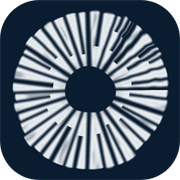
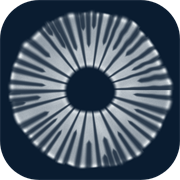
Ink thins towards an implied shore; coffee-stain spore print; moon jelly and denser snow on Research; ?diag
- Home ink: beach and waves removed; the ink thins and breaks into sparse islands towards the bottom, its edge
  running up and drawing back; noise hashed with integers (same on every GPU)
- Spore print redrawn as a stain: soft gill valleys, heavier dried ring at the rim and round the centre, paler
  patchy middle, feathered fingers; favicon re-rendered from it
- Research: twice the marine snow, deeper vignette, a very faint pulsing moon jelly behind the snow
- ?diag (assets/diag.js, loaded by bar.js): device and GPU report with Copy, and reloads with ?gfx=lowp/still

diff --git a/assets/spore.js b/assets/spore.js
@@ -1,12 +1,10 @@
-/* A spore print, after a photographed one, white on the dark page: a soft stain rather than a drawing.
-   The cap's gills are free (they stop short of the stem, leaving a large bare centre with a soft, slightly ragged
-   edge) and crowded: about 190 long gills with shorter ones between, so the gaps stay narrow all the way out.
-   Spores settle densely between the gills, so the deposit is nearly solid and each gill is left as a fine pale
-   line, the spores heaped a little against it. In one or two sectors the gills wave hard (neighbours together);
-   elsewhere they run straight. At the rim each gap's deposit runs out as a finger to its own length and narrows
-   to a point. A few soft, thinner places are drawn out along the gills, and the stain has its own fine texture.
-   Each pixel is worked out directly, off the page, a little at a time between frames; the print is shown only
-   when whole, fading in, and redrawn only when its width changes (not when a phone's address bar slides away).
+/* A spore print, white on the dark page, after a photographed one, and drawn the way such a print really looks:
+   a stain. The cap's gills are free (they stop short of the stem, leaving a large bare centre) and crowded, with
+   shorter ones between; one or two sectors of them wave hard, neighbours together. The deposit between them is a
+   soft film, like a coffee stain: heavier where it dried at its edges, paler and patchy in the middle, feathered
+   at the rim, the gills left as blurred valleys rather than lines.
+   Each pixel is worked out directly, off the page, a little at a time between frames; the print is shown only when
+   whole, fading in, and redrawn only when its width changes (not when a phone's address bar slides away).
    Where there is a graphics card, it is shown through a tiny shader that lets it breathe and sends the faintest
    ripple out across it; with reduced motion, or without a graphics card, it stays still.
    data-gills, data-gw and data-wave (fewer, wider, calmer gills) make the small version used for the favicon. */
@@ -30,60 +28,67 @@
       return .5+.75*(a+(b-a)*v);
     };
   }
-  /* ---- working the print out, into an off-page canvas ---- */
+  /* ---- working the print out, into an off-page canvas ----
+     Drawn as a stain, not a drawing: one continuous film of spores whose density is worked out for each pixel.
+     The gills are soft-edged valleys in it (blurred, as spores drift a little as they fall), so the gaps still
+     read but nothing is crisp. As with a coffee stain, the film is denser where it dried at its edge (a ring just
+     inside the rim, and a lesser one round the bare centre) and paler and patchier inside, with soft watery
+     blotches and the faint lines that a drying edge leaves behind it. The outer edge feathers out. */
   function render(N,done,cancelled){
     const buf=document.createElement('canvas'); buf.width=buf.height=N;
-    const c=buf.getContext('2d'), seed=+cv.dataset.seed||1, r=rng(seed), TAU=Math.PI*2, nz=perlinP(seed);
+    const c=buf.getContext('2d'), seed=+cv.dataset.seed||1, r=rng(seed), TAU=Math.PI*2, nz=perlinP(seed), nz2=perlinP(seed+9);
     const ink=root.dataset.v==='ocean'?[238,243,245]:[70,44,26];
-    const ringW=+cv.dataset.gw?0:1;                                     // the outer tide-line of a coffee stain (not on the favicon)
-    const R=N*.47, cx=N/2, cy=N/2, px=N/800, gw=+cv.dataset.gw||1;  // px: one pixel of the 800-wide design; gw widens the gills (the favicon)
-    // gills: long ones from the bare centre, and one or three short ones in each gap
-    const F=+cv.dataset.gills||190, gills=[];
+    const R=N*.47, cx=N/2, cy=N/2, gw=+cv.dataset.gw||1, small=!!cv.dataset.gw;
+    // gills: long ones from the bare centre, and a short one (sometimes three) in each gap
+    const F=+cv.dataset.gills||150, gills=[];
     for(let i=0;i<F;i++){
-      const a=i/F*TAU+(r()-.5)*.25/F*TAU; gills.push({a,start:0,w:r()});
-      const n=r()<.15?3:1;
-      for(let k=1;k<=n;k++){ const lvl=(n===3&&k!==2)?.7+r()*.12:.45+r()*.15; gills.push({a:a+TAU/F*k/(n+1)+(r()-.5)*.15/F*TAU,start:R*lvl,w:r()}) }
+      const a=i/F*TAU+(r()-.5)*.3/F*TAU; gills.push({a,start:0,w:r()});
+      const n=r()<.2?3:1;
+      for(let k=1;k<=n;k++) gills.push({a:a+TAU/F*k/(n+1)+(r()-.5)*.15/F*TAU,start:R*((n===3&&k!==2)?.7+r()*.12:.45+r()*.15),w:r()});
     }
     gills.sort((x,y)=>x.a-y.a);
     const G=gills.length, angs=Float64Array.from(gills,g=>g.a);
-    for(const g of gills) g.hw=px*gw*(.95+.7*g.w*g.w);               // half-width of the bare line each gill leaves
-    const harm=Array.from({length:6},(_,k)=>[(r()-.5)*(k<2?.045:.016),r()*TAU]);
+    const harm=Array.from({length:6},(_,k)=>[(r()-.5)*(k<2?.05:.018),r()*TAU]);
     const rim=a=>R*(1+harm.reduce((s,[m,p],k)=>s+m*Math.sin(a*(k+2)+p),0));
     const hole=a=>R*.3*(1+.04*Math.sin(2*a+1.3)+.03*Math.sin(3*a+.4)+.05*(nz(a/TAU*10,1.5,10)-.5));
-    // waviness: strong in one or two sectors, nearly none elsewhere; the phase drifts slowly round the print,
-    // so neighbouring gills wave together, as gills pressed out of line by the cap do
-    const wv=cv.dataset.wave?+cv.dataset.wave:1, amp=a=>(.002+.03*sm(.52,.78,nz(a/TAU*5,7.3,5)))*wv, phase=a=>nz(a/TAU*14,2.2,14)*9;
+    const amp=a=>(.002+.026*sm(.52,.78,nz(a/TAU*5,7.3,5)))*(cv.dataset.wave?+cv.dataset.wave:1), phase=a=>nz(a/TAU*14,2.2,14)*9;
     const img=c.createImageData(N,N), d=img.data, top=Math.max(0,Math.floor(cy-R*1.12)), bot=Math.min(N,Math.ceil(cy+R*1.12));
     let y=top;
     (function strip(){
       if(cancelled()) return;
       const t0=performance.now();
       for(;y<bot&&performance.now()-t0<10;y++) for(let x=0;x<N;x++){
-        const dx=x+.5-cx, dy=y+.5-cy, rad=Math.hypot(dx,dy); if(rad>R*1.12) continue;
+        const dx=x+.5-cx, dy=y+.5-cy, rad=Math.hypot(dx,dy); if(rad>R*1.14) continue;
         let a=Math.atan2(dy,dx); if(a<0) a+=TAU;
-        const h0=hole(a); if(rad<h0-R*.006) continue;
-        const u=rad/R, ph=phase(a), aw=a-amp(a)*u*(.7*Math.sin(u*26+ph)+.3*Math.sin(u*47+ph*1.7));   // undo the wave
+        const h0=hole(a); if(rad<h0-R*.03) continue;
+        const u=rad/R, ph=phase(a), aw=a-amp(a)*u*(.7*Math.sin(u*26+ph)+.3*Math.sin(u*47+ph*1.7));
         let lo=0,hi=G; while(lo<hi){const m=(lo+hi)>>1; if(angs[m]<aw) lo=m+1; else hi=m}
-        // the rim: each gap's deposit runs out as a finger to its own length, narrowing to a point
-        const edge=rim(a)*(1+.05*(hash(lo)-.5)), feather=R*(.015+.035*hash(lo+7)), tip=sm(edge-feather,edge,rad);
-        if(tip>=1) continue;
-        let best=1e9;
-        for(let k=-4;k<=4;k++){ const g=gills[(lo+k+G)%G]; if(rad<g.start) continue;
-          let e=Math.abs(aw-g.a); if(e>Math.PI) e=TAU-e; e*=rad;
-          const hw=g.hw+tip*tip*.45*Math.PI*rad/G;                                    // gills widen into the gaps at the very edge
-          if(e-hw<best) best=e-hw }
-        let dep=sm(-1.3*px*gw,1.5*px*gw,best)*(1-tip);                         // the gill itself: a soft, blurred line
-        dep*=sm(h0-R*.006,h0+R*.012,rad)*(.88+.12*sm(h0,h0+R*.14,rad));          // the bare centre, its edge soft
-        dep*=.72+.4*Math.exp(-Math.pow(Math.max(0,best-1.2*px*gw)/(2.2*px*gw),2));   // like a coffee stain, the deposit dries heavier at its edges, against each gill
-        const m=nz(a/TAU*40,u*2.4,40)*.6+nz(a/TAU*80,u*4.8,80)*.4;           // a few soft thinner places, drawn out along the gills
-        dep*=1-.3*sm(.58,.82,m);
-        dep*=.9+.12*nz(x*.35/px,y*.35/px,1e6)+.04*(Math.random()-.5);         // the stain's own fine texture
-        dep*=1+.22*ringW*sm(edge-feather-R*.06,edge-feather,rad)*(1-tip);   // a faint tide-line where the stain dried at its edge
+        // distance to the nearest gill, as a share of the gap there (0 on the gill, about .5 mid-gap)
+        let best=9, sp=TAU/G;
+        for(let k=-3;k<=3;k++){ const g=gills[(lo+k+G)%G], on=sm(g.start-R*.01,g.start+R*.1,rad); if(on<=0) continue;   // short gills fade in
+          let e=Math.abs(aw-g.a); if(e>Math.PI) e=TAU-e; e=e/(sp*(.8+.5*g.w))+(1-on)*.6; if(e<best) best=e }
+        let dep=sm(.08*gw,.42*gw,best);                                              // soft valleys where the gills stood
+        dep=.22+.78*dep;                                                             // spores drift a little into them too
+        // the edges dry heavier: a ring just inside the rim, a lesser one round the bare centre; the middle is paler
+        const edge=rim(a)*(1+.035*(nz2(a/TAU*30,.5,30)-.5)+.03*(hash(lo)-.5)), feather=R*(.02+.045*hash(lo+7));   // each gap ends at its own reach
+        const out=sm(edge-feather,edge+feather*.4,rad);                              // the feathered outer edge
+        const ring=Math.exp(-Math.pow((edge-feather*.6-rad)/(R*.035),2));
+        const inner=Math.exp(-Math.pow((rad-h0-R*.03)/(R*.03),2));
+        let film=.84+.28*ring+.14*inner-.1*sm(.45,.75,u)*(1-ring);
+        // watery blotches and the faint lines a drying edge leaves behind
+        const bl=nz(a/TAU*18,u*3,18)*.65+nz(a/TAU*36,u*6,36)*.35;
+        film*=.82+.3*bl;
+        if(!small) film*=1-.08*Math.exp(-Math.pow((fr(bl*6)-.5)/.06,2));
+        dep*=film*(1-out)*sm(h0-R*.03,h0+R*.03,rad);
+        dep*=.95+.1*Math.random();
         if(dep<=0) continue;
-        const o=(y*N+x)*4; d[o]=ink[0]; d[o+1]=ink[1]; d[o+2]=ink[2]; d[o+3]=Math.min(255,dep*238);
+        const o=(y*N+x)*4; d[o]=ink[0]; d[o+1]=ink[1]; d[o+2]=ink[2]; d[o+3]=Math.min(255,dep*232);
       }
       if(y<bot) return setTimeout(strip,0);
-      c.putImageData(img,0,0); done(buf);
+      c.putImageData(img,0,0);
+      // a last soft blur, as spores settle a little unevenly
+      if(!small&&'filter' in c){ const b2=document.createElement('canvas'); b2.width=b2.height=N; const c2=b2.getContext('2d'); c2.filter=`blur(${(N/800*.9).toFixed(2)}px)`; c2.drawImage(buf,0,0); done(b2) }
+      else done(buf);
     })();
   }
   /* ---- showing it: through a small shader if there is a graphics card, else as a plain picture ---- */

diff --git a/assets/foam.js b/assets/foam.js
@@ -2,11 +2,15 @@
    black-and-white film. Drawn on the GPU into <canvas id="ink">. The ink's shapes come from domain warping (noise
    fed through itself twice), carried by a slow swell so the whole surface rolls in long smooth waves. Colour sits
    underneath and only shows faintly where the ink thins. A little grain and the faintest flicker, as on film.
+   In the ocean version (the default) the ink is Prussian blue and thins towards the bottom of the window, its
+   edge running up and drawing back like the sea on a beach, which is only implied. ?diag shows what the
+   browser reports about the graphics card (assets/diag.js), to chase rendering faults on particular devices.
    With ?bg=diatoms, assets/ink.js draws diatoms instead. */
 (function(){
   const cv=document.getElementById('ink'); if(!cv) return;
   if(new URLSearchParams(location.search).get('bg')==='diatoms'){ const s=document.createElement('script'); s.src=document.currentScript.src.replace('foam.js','ink.js'); document.body.appendChild(s); return }
-  const still=matchMedia('(prefers-reduced-motion: reduce)').matches;
+  const gfx=new URLSearchParams(location.search).get('gfx')||'';                 // set by the ?diag panel's buttons
+  const still=matchMedia('(prefers-reduced-motion: reduce)').matches||gfx==='still';
   const fallback=()=>{cv.style.background='radial-gradient(120% 90% at 30% 20%,#9a9a96,#262626 55%,#080808)'};
 
   const VS=`#version 300 es
@@ -15,7 +19,9 @@ in vec2 a; void main(){ gl_Position=vec4(a,0.,1.); }`;
 precision highp float;
 uniform vec2 res; uniform float t; uniform float scroll; uniform float ocean;
 out vec4 o;
-float hash(vec2 p){ p=fract(p*vec2(123.34,456.21)); p+=dot(p,p+45.32); return fract(p.x*p.y); }
+// an integer hash on the float's own bits: the same on every GPU, however it handles float precision
+float hash(vec2 p){ uvec2 v=floatBitsToUint(p)*1664525u+1013904223u; v.x+=v.y*1664525u; v.y+=v.x*1664525u; v^=v>>16u;
+  v.x+=v.y*1664525u; v.y+=v.x*1664525u; v^=v>>16u; return float((v.x^v.y)>>8)/16777216.; }
 float noise(vec2 p){ vec2 i=floor(p), f=fract(p); vec2 u=f*f*f*(f*(f*6.-15.)+10.);       // quintic: no creases
   return mix(mix(hash(i),hash(i+vec2(1,0)),u.x),mix(hash(i+vec2(0,1)),hash(i+vec2(1,1)),u.x),u.y); }
 const mat2 R=mat2(.8,.6,-.6,.8);
@@ -53,30 +59,20 @@ void main(){
     float w2=smoothstep(.32,.7,fbm(uv*.8-T*.08+3.));
     col=mix(sea,bleed*(v*.75+.18),clamp(thin*.9+.15*(1.-ink),0.,1.)*w2*.6);
     vig=.5;
-    // the shore, seen from above: a white beach along the bottom of the window. The ink rolls in towards it as
-    // waves, their crests (bent by the ink's own warp) breaking into lines of white foam that thicken as they
-    // near the sand; at the waterline the swash runs up the beach and draws back, out of step along the shore,
-    // leaving a darker band of wet sand and a lace of foam at its edge
+    // the shore, only implied: going down the window the ink thins and breaks into sparser islands over paler
+    // water, and the line where it thins runs up and draws back, out of step along its length, the way the
+    // edge of the sea advances and retreats on a beach. No sand and no waves are drawn; it is all the ink.
     float yb=gl_FragCoord.y/res.y, xs=gl_FragCoord.x/res.y;
-    float cyc=t*.3+xs*.7+2.5*fbm(vec2(xs*1.3,7.))+.6*sin(xs*2.3);
-    float run=.5+.5*sin(cyc);                                                   // how far up the swash has run
-    float shape=.09*fbm(vec2(xs*.9,3.1))+.025*abs(sin(xs*3.1+fbm(vec2(xs,9.))*2.));   // bays, and the cusps a beach makes
-    float wl=.1+shape+.06*run;                                                  // the waterline
-    float d=yb-wl;
-    float ph=yb*(9.+14.*smoothstep(.6,.0,d))*3.1416-t*.9+3.*(r.x-.5)+2.*(fbm(vec2(xs*2.4,yb*2.-t*.04))-.5);  // wave crests coming in, bunching up near the sand
-    float near=smoothstep(.65,.02,d);
-    float crest=pow(max(0.,sin(ph)),6.)*near*smoothstep(.3,.6,fbm(p*2.3+vec2(t*.06,0.)))*1.3;
-    vec3 foamc=vec3(.9,.96,.98);
-    col=mix(col,mix(col,vec3(.16,.55,.66),.5),smoothstep(.18,.0,d)*.6);         // shallows over sand go green-blue
-    col=mix(col,foamc,crest);
-    float lace=smoothstep(.022,.0,abs(d-.006))*(.55+.45*fbm(vec2(xs*18.,t*.3)));  // the foam at the swash's edge
-    vec3 sand=vec3(.95,.95,.93)*(.96+.04*fbm(uv*40.));
-    float back=.5+.5*sin(cyc-.9);                                               // where the water has just been
-    float wetTo=.1+shape+.06*max(run,back)-.004;
-    vec3 wet=mix(sand,vec3(.5,.6,.68),.5);
-    vec3 beach=mix(sand,wet,smoothstep(wetTo-.05,wetTo,yb));
-    col=mix(col,beach,smoothstep(.004,-.004,d));
-    col=mix(col,foamc,lace*.9);
+    float tide=.5+.5*sin(t*.28+xs*.9+2.2*fbm(vec2(xs*.8,t*.02)));             // how far up the water has run, here
+    float edge=.18+.12*fbm(vec2(xs*.7,5.3))+.1*tide;                             // where the ink starts to thin
+    float thin2=smoothstep(edge+.14,edge-.1,yb)*(.75+.25*smoothstep(edge,0.,yb)); // 0 above, rising through the moving edge
+    float ink2=smoothstep(.36+.2*thin2,.7+.12*thin2,f);                         // the same ink, thresholded harder lower down
+    ink2*=mix(1.,smoothstep(.42,.62,fbm(p*2.6+r*1.5)),thin2*.85);               // and broken into sparse islands
+    float rim=smoothstep(.06,.0,abs(yb-edge-.02*sin(xs*9.+t*.5)))*tide;         // a faint thinning line at the water's reach
+    float v2=mix(.8,.05,ink2)+.06*thin2+.05*(1.-ink2)*(fbm(p*3.+r)-.5);
+    vec3 sea2=v2<.35?mix(deep,mid,pow(v2/.35,.8)):mix(mid,foam,clamp((v2-.35)/.65,0.,1.));
+    col=mix(col,sea2,thin2);
+    col=mix(col,foam,rim*.18*(1.-ink2));
   }
 
   vec2 c=gl_FragCoord.xy/res-.5; col*=1.-dot(c,c)*vig;            // a vignette, as from an old lens
@@ -90,7 +86,7 @@ void main(){
     // where the browser can, the shader compiles in the background; we only check on it between frames
     const par=gl.getExtension('KHR_parallel_shader_compile');
     const vs=gl.createShader(gl.VERTEX_SHADER), fs=gl.createShader(gl.FRAGMENT_SHADER);
-    gl.shaderSource(vs,VS); gl.shaderSource(fs,FS); gl.compileShader(vs); gl.compileShader(fs);
+    gl.shaderSource(vs,VS); gl.shaderSource(fs,gfx==='lowp'?FS.replace('precision highp float','precision mediump float'):FS); gl.compileShader(vs); gl.compileShader(fs);
     gl.attachShader(pr,vs); gl.attachShader(pr,fs); gl.linkProgram(pr);
     const ready=()=>!par||gl.getProgramParameter(pr,par.COMPLETION_STATUS_KHR);
     (function wait(){ if(!ready()) return requestAnimationFrame(wait);
@@ -106,6 +102,7 @@ void main(){
     const info=gl.getExtension('WEBGL_debug_renderer_info'), gpu=info?gl.getParameter(info.UNMASKED_RENDERER_WEBGL):'';
     const soft=/swiftshader|llvmpipe|software|basic render/i.test(gpu);
     let quality=soft?.18:1;
+    window.__gfx=Object.assign(window.__gfx||{},{ink:{gpu,soft,quality:()=>quality,canvas:()=>cv.width+'x'+cv.height}});
     function size(){
       // drawn below screen resolution and scaled up: the image is soft by nature, and it keeps the GPU cool
       const k=Math.min(1,(innerWidth<700?.5:.6)*Math.min(2,devicePixelRatio||1))*quality;

diff --git a/assets/water.js b/assets/water.js
@@ -3,6 +3,9 @@
    absorbed at its own rate (Beer-Lambert, coastal water: red goes first, green carries furthest). Marine snow
    drifts past in three layers, the nearest larger and softer, sinking and sliding up as you descend.
    Faint sensor noise, a wide-angle lens's barrel distortion and its darkened corners make it look filmed.
+   Far off, barely there, a moon jelly (Aurelia aurita) drifts across: a clear bell with the four horseshoe rings
+   of its gonads, a fringe of fine tentacles and four frilled oral arms, pulsing slowly (the bell contracts quickly
+   and relaxes slowly, each beat lifting it a little) and seen through the same lens as everything else.
    Exposes window.Water and fires a 'depth' event on window with {depth, T, rgb}. */
 (function(){
   const cv=document.getElementById('water'); if(!cv) return;
@@ -24,13 +27,37 @@
   function size(){
     dpr=Math.min(2,devicePixelRatio||1); W=innerWidth; H=innerHeight;
     cv.width=Math.round(W*dpr); cv.height=Math.round(H*dpr);
-    const n=Math.round(W*H/5200);
+    const n=Math.round(W*H/2400);
     flakes=Array.from({length:n},()=>{const z=r();return {x:r()*W,y:r()*H,z,s:.5+z*z*3.2,a:r()*Math.PI,e:.4+r()*.6,sink:.18+z*.55,sway:r()*6.28}});
     // a few tiles of sensor noise, cycled so the grain moves without being drawn fresh each frame
     noise=Array.from({length:4},()=>{const t=document.createElement('canvas');t.width=t.height=128;const c=t.getContext('2d'),im=c.createImageData(128,128);
       for(let i=0;i<im.data.length;i+=4){const v=Math.random()*255;im.data[i]=im.data[i+1]=im.data[i+2]=v;im.data[i+3]=255}c.putImageData(im,0,0);return t});
   }
   let lastY=scrollY, frame=0, depth=D0;
+  /* the moon jelly: drawn at a size s (the bell's width) with its bell's beat b (0 relaxed, 1 contracted) */
+  const jel={x:.78,y:.62,vx:-.006,ph:0};
+  function jelly(c,x,y,s,b,t,al){
+    const w=s*(1-.14*b), h=s*(.42+.1*b);                                       // the bell narrows and deepens as it beats
+    c.save(); c.translate(x,y); c.rotate(-.12+.05*Math.sin(t*.21));
+    // oral arms and tentacles first, trailing behind (below) the bell
+    c.lineCap='round';
+    for(let k=0;k<4;k++){ const ox=(k-1.5)*w*.07, len=s*(.9+.15*k%2);
+      c.strokeStyle=`rgba(225,240,250,${al*.55})`; c.lineWidth=s*.035; c.beginPath(); c.moveTo(ox,h*.05);
+      for(let i=1;i<=12;i++){ const v=i/12; c.lineTo(ox+Math.sin(v*5+t*.7+k)*s*.06*v, h*.05+v*len) } c.stroke() }
+    c.strokeStyle=`rgba(225,240,250,${al*.35})`; c.lineWidth=Math.max(.5,s*.006);
+    for(let i=0;i<=40;i++){ const u=i/40, ex=-w/2+u*w, ey=h*.02*Math.sin(u*Math.PI), len=s*(.18+.1*Math.sin(i*1.7)), sw=Math.sin(t*.8+i*.4)*s*.03;
+      c.beginPath(); c.moveTo(ex,ey); c.quadraticCurveTo(ex+sw*.5,ey+len*.5,ex+sw,ey+len); c.stroke() }
+    // the bell: a shallow dome, clearer in the middle, with a brighter rim
+    const g=c.createRadialGradient(0,-h*.2,0,0,-h*.2,w*.6); g.addColorStop(0,`rgba(235,245,252,${al*.25})`); g.addColorStop(.75,`rgba(235,245,252,${al*.45})`); g.addColorStop(1,`rgba(235,245,252,${al*.8})`);
+    c.fillStyle=g; c.beginPath(); c.moveTo(-w/2,0); c.bezierCurveTo(-w/2,-h*1.25,w/2,-h*1.25,w/2,0); c.quadraticCurveTo(0,h*.12,-w/2,0); c.fill();
+    c.strokeStyle=`rgba(240,248,255,${al*.9})`; c.lineWidth=Math.max(.6,s*.008); c.stroke();
+    // the four gonads, seen through the bell as faint lilac horseshoes
+    // arranged as a four-leaf clover round the bell's centre (seen from a little above), each opening outwards
+    c.strokeStyle=`rgba(214,190,236,${al*.6})`; c.lineWidth=s*.016;
+    for(let k=0;k<4;k++){ const a=Math.PI/4+k*Math.PI/2, gx=Math.cos(a)*w*.15, gy=-h*.55+Math.sin(a)*h*.22;
+      c.save(); c.translate(gx,gy); c.scale(1,.55); c.beginPath(); c.arc(0,0,w*.075,a+.9,a+Math.PI*2-.9); c.restore(); c.stroke() }
+    c.restore();
+  }
   /* a soft sprite for the near, out-of-focus flakes, made once instead of a gradient per flake per frame */
   let blob=null;
   function sprite(){blob=document.createElement('canvas'); blob.width=blob.height=64; const c=blob.getContext('2d'), g=c.createRadialGradient(32,32,0,32,32,32); g.addColorStop(0,'rgba(255,255,255,.5)'); g.addColorStop(1,'rgba(255,255,255,0)'); c.fillStyle=g; c.fillRect(0,0,64,64)}
@@ -60,11 +87,16 @@
       if(f.z>.8){c.globalAlpha=Math.min(1,al*1.6); c.drawImage(blob,x-sz*1.8,y-sz*1.8,sz*3.6,sz*3.6); c.globalAlpha=1}
       else{c.fillStyle=`rgba(${ink},${al})`;c.beginPath();c.ellipse(x,y,sz,sz*f.e,f.a,0,6.283);c.fill()}
     }
+    // the moon jelly, far off behind the snow
+    { const tt=performance.now()/1000, cyc=(tt*.33)%1, b=cyc<.25?Math.sin(cyc/.25*Math.PI/2):Math.cos((cyc-.25)/.75*Math.PI/2);
+      if(!still){ jel.x+=jel.vx/30; jel.y-=(.0004+.0016*b)-dy/H*.3; if(jel.x<-.2){jel.x=1.2;jel.y=.4+r()*.4} if(jel.y<-.25) jel.y=1.25; if(jel.y>1.3) jel.y=-.2 }
+      const [x,y,q]=lens(jel.x*W,jel.y*H), s=Math.min(W,H)*.22*q;
+      jelly(c,x,y,s,still?0:b,tt,L>.35?.05:.09) }
     // sensor noise, very faint
     c.globalAlpha=L>.35?.035:.05; c.fillStyle=c.createPattern(noise[frame++%noise.length],'repeat'); c.fillRect(0,0,W,H); c.globalAlpha=1;
     // a wide-angle lens darkens towards the corners (natural vignetting, roughly cos^4 of the angle off-axis)
     const v=c.createRadialGradient(W/2,H/2,0,W/2,H/2,Math.hypot(W,H)*.5);
-    v.addColorStop(0,'rgba(0,4,8,0)'); v.addColorStop(.55,'rgba(0,4,8,.06)'); v.addColorStop(.8,'rgba(0,4,8,.28)'); v.addColorStop(1,'rgba(0,4,8,.6)'); c.fillStyle=v; c.fillRect(0,0,W,H);
+    v.addColorStop(0,'rgba(0,4,8,0)'); v.addColorStop(.42,'rgba(0,4,8,.08)'); v.addColorStop(.72,'rgba(0,4,8,.38)'); v.addColorStop(1,'rgba(0,4,8,.78)'); c.fillStyle=v; c.fillRect(0,0,W,H);
     root.style.setProperty('--water',css(mid));
     root.style.setProperty('--water-lum',L.toFixed(3));
     dispatchEvent(new CustomEvent('depth',{detail:{depth,T:t,rgb:mid}}));

diff --git a/assets/diag.js b/assets/diag.js
@@ -1,0 +1,43 @@
+/* Shared by both sites (keep identical). Loaded by bar.js only when the address has ?diag in it. A small panel
+   lists what the browser reports about the device and its graphics, so a rendering fault seen on one device can be
+   compared with a device where it is fine; "Copy" puts the report on the clipboard to paste into a message.
+   Buttons reload the page with the backdrop simplified (?gfx=lowp forces low precision, which is what a fault of
+   that kind would look like; ?gfx=still stops the animation), to narrow down the cause. */
+(function(){
+  const q=new URLSearchParams(location.search), lines=[];
+  const add=(k,v)=>lines.push([k,String(v)]);
+  add('page',location.pathname+location.search);
+  add('browser',navigator.userAgent);
+  add('screen',`${screen.width}x${screen.height} @${devicePixelRatio}, window ${innerWidth}x${innerHeight}`);
+  add('motion',matchMedia('(prefers-reduced-motion: reduce)').matches?'reduced':'normal');
+  add('scheme',matchMedia('(prefers-color-scheme: dark)').matches?'dark':'light');
+  const probe=document.createElement('canvas'), gl=probe.getContext('webgl2');
+  if(!gl) add('webgl2','not available');
+  else {
+    const info=gl.getExtension('WEBGL_debug_renderer_info');
+    add('gpu',info?gl.getParameter(info.UNMASKED_RENDERER_WEBGL):gl.getParameter(gl.RENDERER));
+    add('vendor',info?gl.getParameter(info.UNMASKED_VENDOR_WEBGL):gl.getParameter(gl.VENDOR));
+    const pf=(s,p)=>{const f=gl.getShaderPrecisionFormat(s,p);return f?`${f.precision} bits, 2^${f.rangeMin}..2^${f.rangeMax}`:'?'};
+    add('frag highp',pf(gl.FRAGMENT_SHADER,gl.HIGH_FLOAT)); add('frag mediump',pf(gl.FRAGMENT_SHADER,gl.MEDIUM_FLOAT));
+    add('max texture',gl.getParameter(gl.MAX_TEXTURE_SIZE));
+    add('extensions',['KHR_parallel_shader_compile','EXT_color_buffer_float','OES_texture_float_linear'].map(e=>e.split('_').slice(1).join('_')+(gl.getExtension(e)?' yes':' no')).join(', '));
+    gl.getExtension('WEBGL_lose_context')?.loseContext();
+  }
+  const box=document.createElement('div');
+  box.style.cssText='position:fixed;z-index:99;left:8px;bottom:8px;max-width:min(560px,calc(100vw - 16px));max-height:60vh;overflow:auto;background:rgba(0,0,0,.86);color:#e8e8e8;font:12px/1.45 ui-monospace,monospace;padding:10px 12px;border-radius:6px;white-space:pre-wrap;word-break:break-word';
+  document.body.appendChild(box);
+  let fps='measuring…', n=0, t0=performance.now();
+  (function count(t){ n++; if(t-t0>2000){ fps=Math.round(n*1000/(t-t0))+' fps'; n=0; t0=t; render() } requestAnimationFrame(count) })(t0);
+  const go=v=>{const u=new URL(location.href); u.searchParams.set('diag',''); if(v) u.searchParams.set('gfx',v); else u.searchParams.delete('gfx'); location.href=u.href};
+  function render(){
+    const g=window.__gfx||{}, extra=Object.entries(g).map(([k,o])=>`${k}: quality ${o.quality?o.quality():'?'}, canvas ${o.canvas?o.canvas():'?'}`);
+    const cvs=[...document.querySelectorAll('canvas.backdrop,canvas.print')].map(c=>('canvas #'+(c.id||c.className)).padEnd(13)+`${c.width}x${c.height} drawn, shown ${c.clientWidth}x${c.clientHeight}`);
+    box.textContent=[...lines.map(([k,v])=>k.padEnd(13)+v),...cvs,'frame rate'.padEnd(13)+fps,...extra].join('\n')+'\n';
+    for(const [label,v] of [['Copy',null],['normal',''],['low precision','lowp'],['still','still']]){
+      const b=document.createElement('button'); b.textContent=label; b.style.cssText='margin:6px 6px 0 0;font:inherit;padding:3px 8px';
+      b.onclick=v===null?()=>navigator.clipboard?.writeText(box.textContent).then(()=>b.textContent='Copied'):()=>go(v);
+      box.appendChild(b);
+    }
+  }
+  render();
+})();

diff --git a/assets/bar.js b/assets/bar.js
@@ -1,6 +1,7 @@
 /* Shared by both sites (keep identical). Following the other site's name in the bar first plays the change
    described in bar.css, then goes there; the page that opens already shows the end of it. */
 (function(){
+  if(/[?&]diag(=|&|$)/.test(location.search)){ const d=document.createElement('script'); d.src=new URL('diag.js',document.currentScript.src).href; document.body.appendChild(d) }   // the diagnostics panel
   const s=document.querySelector('.sites'), a=s&&s.querySelector('.away'); if(!a) return;
   a.addEventListener('pointerenter',()=>{ if(a.dataset.pf) return; a.dataset.pf=1; const l=document.createElement('link'); l.rel='prefetch'; l.href=a.href; document.head.appendChild(l) },{once:true});
   if(matchMedia('(prefers-reduced-motion: reduce)').matches) return;
